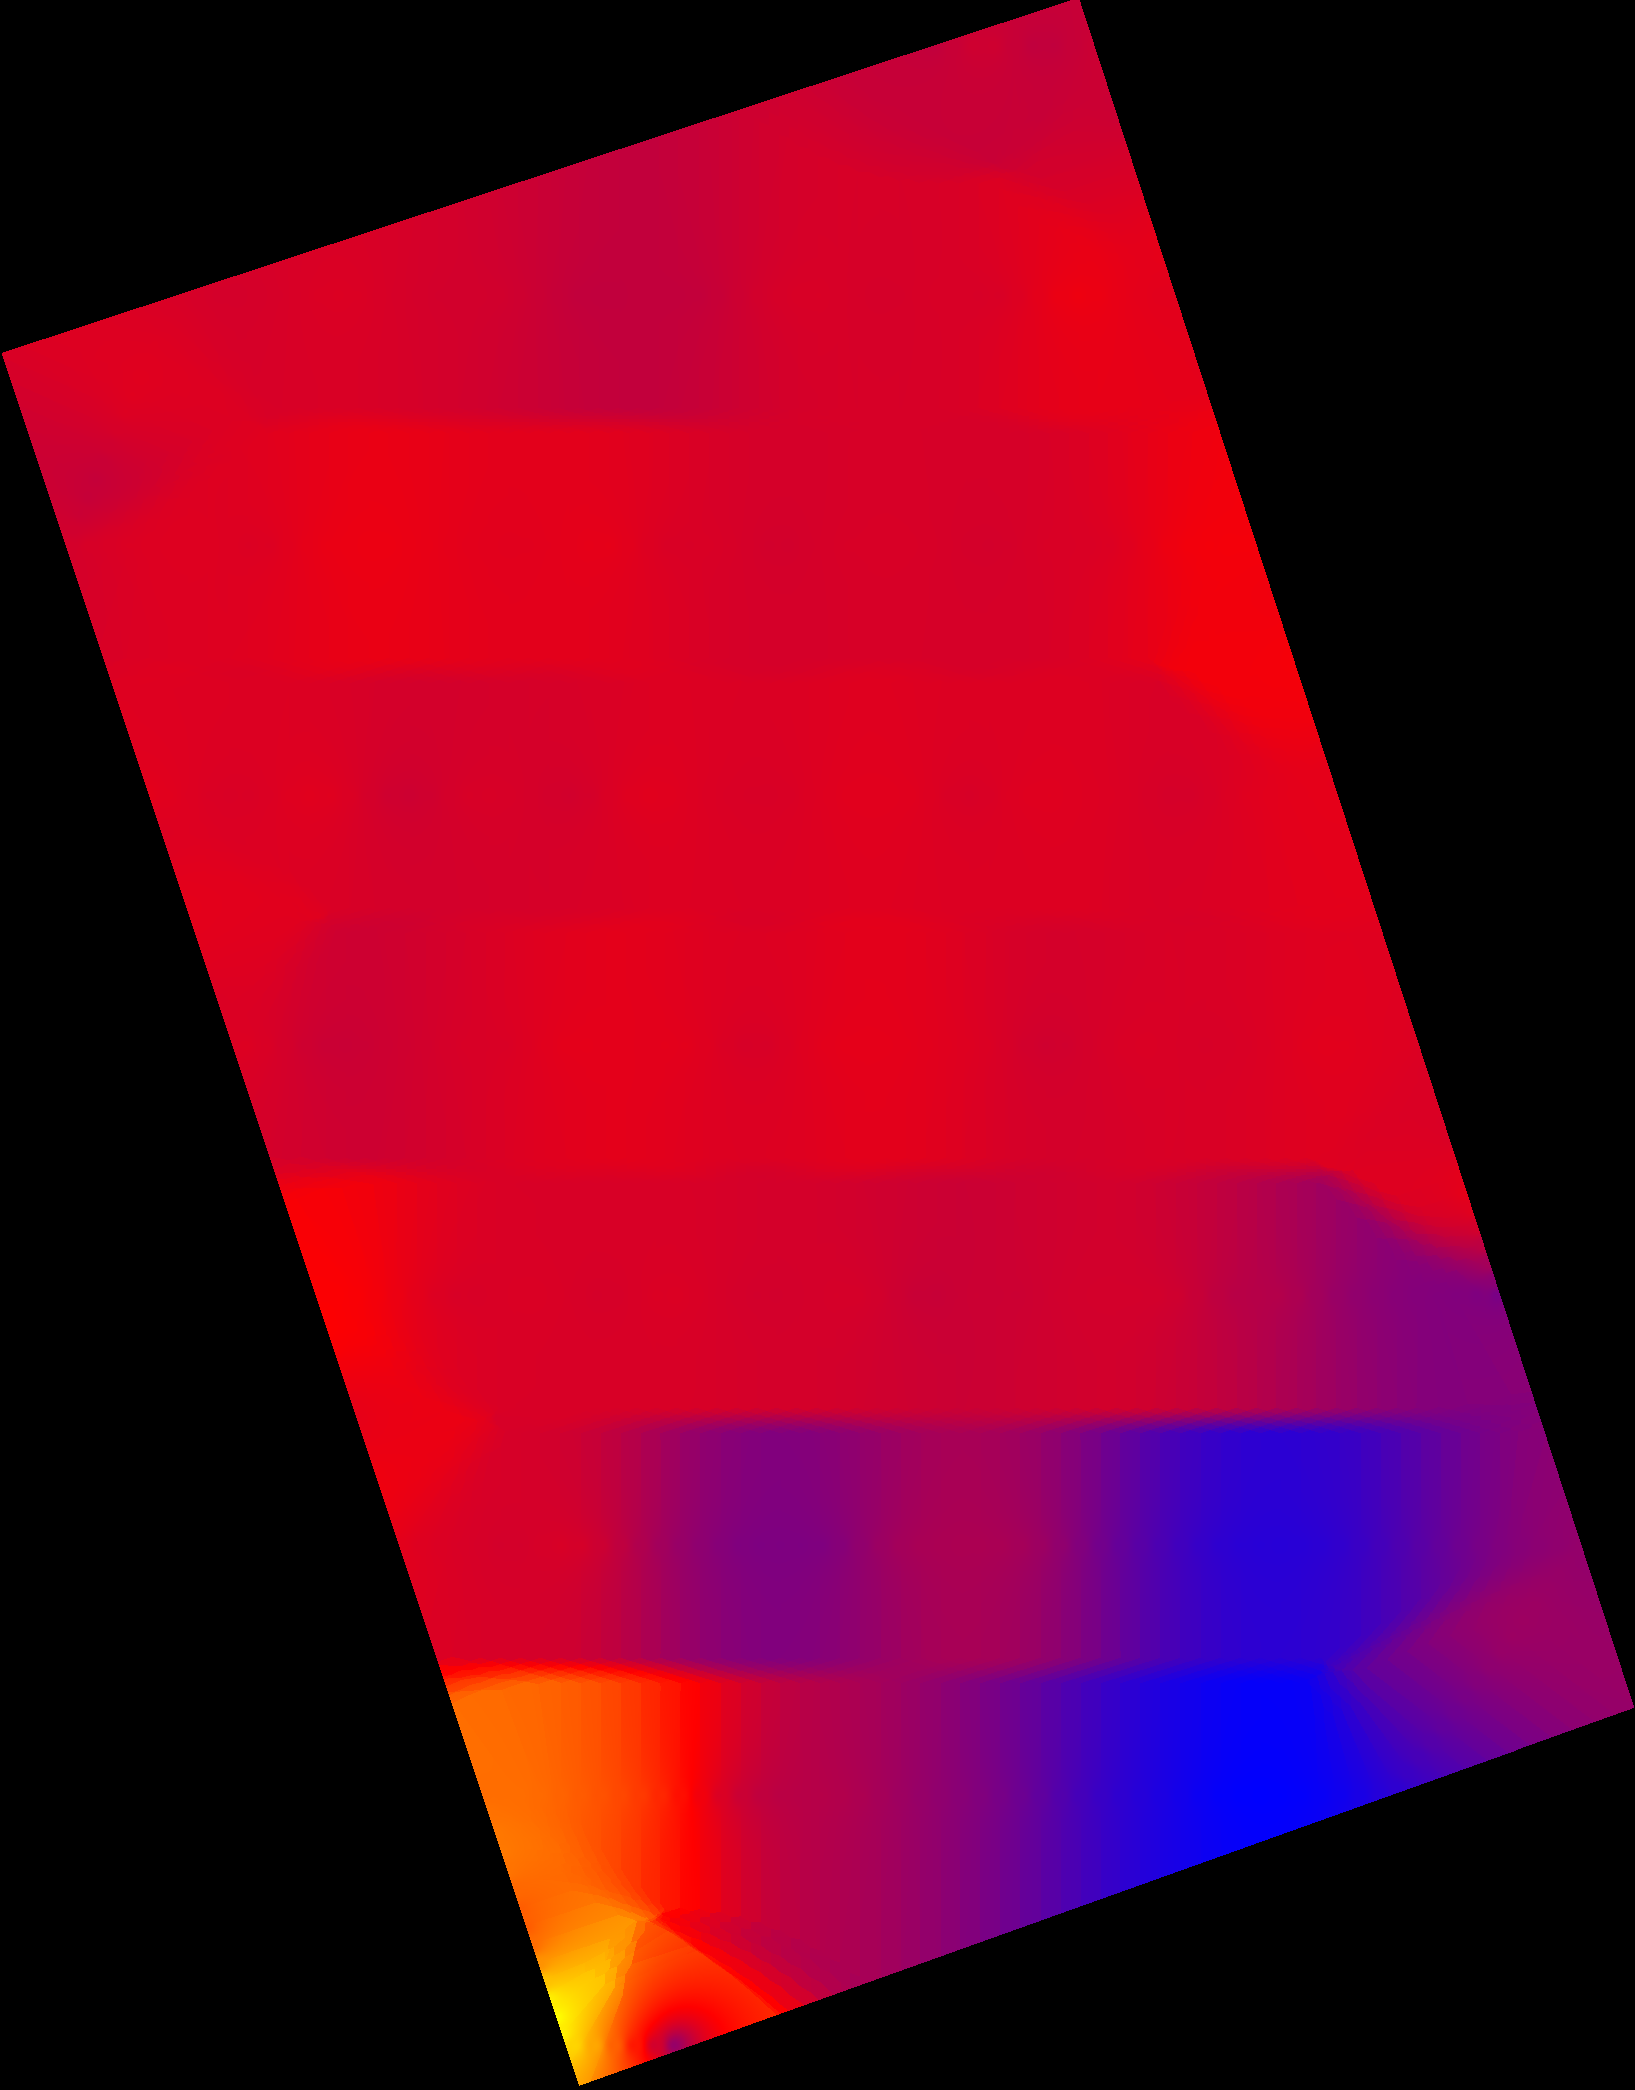
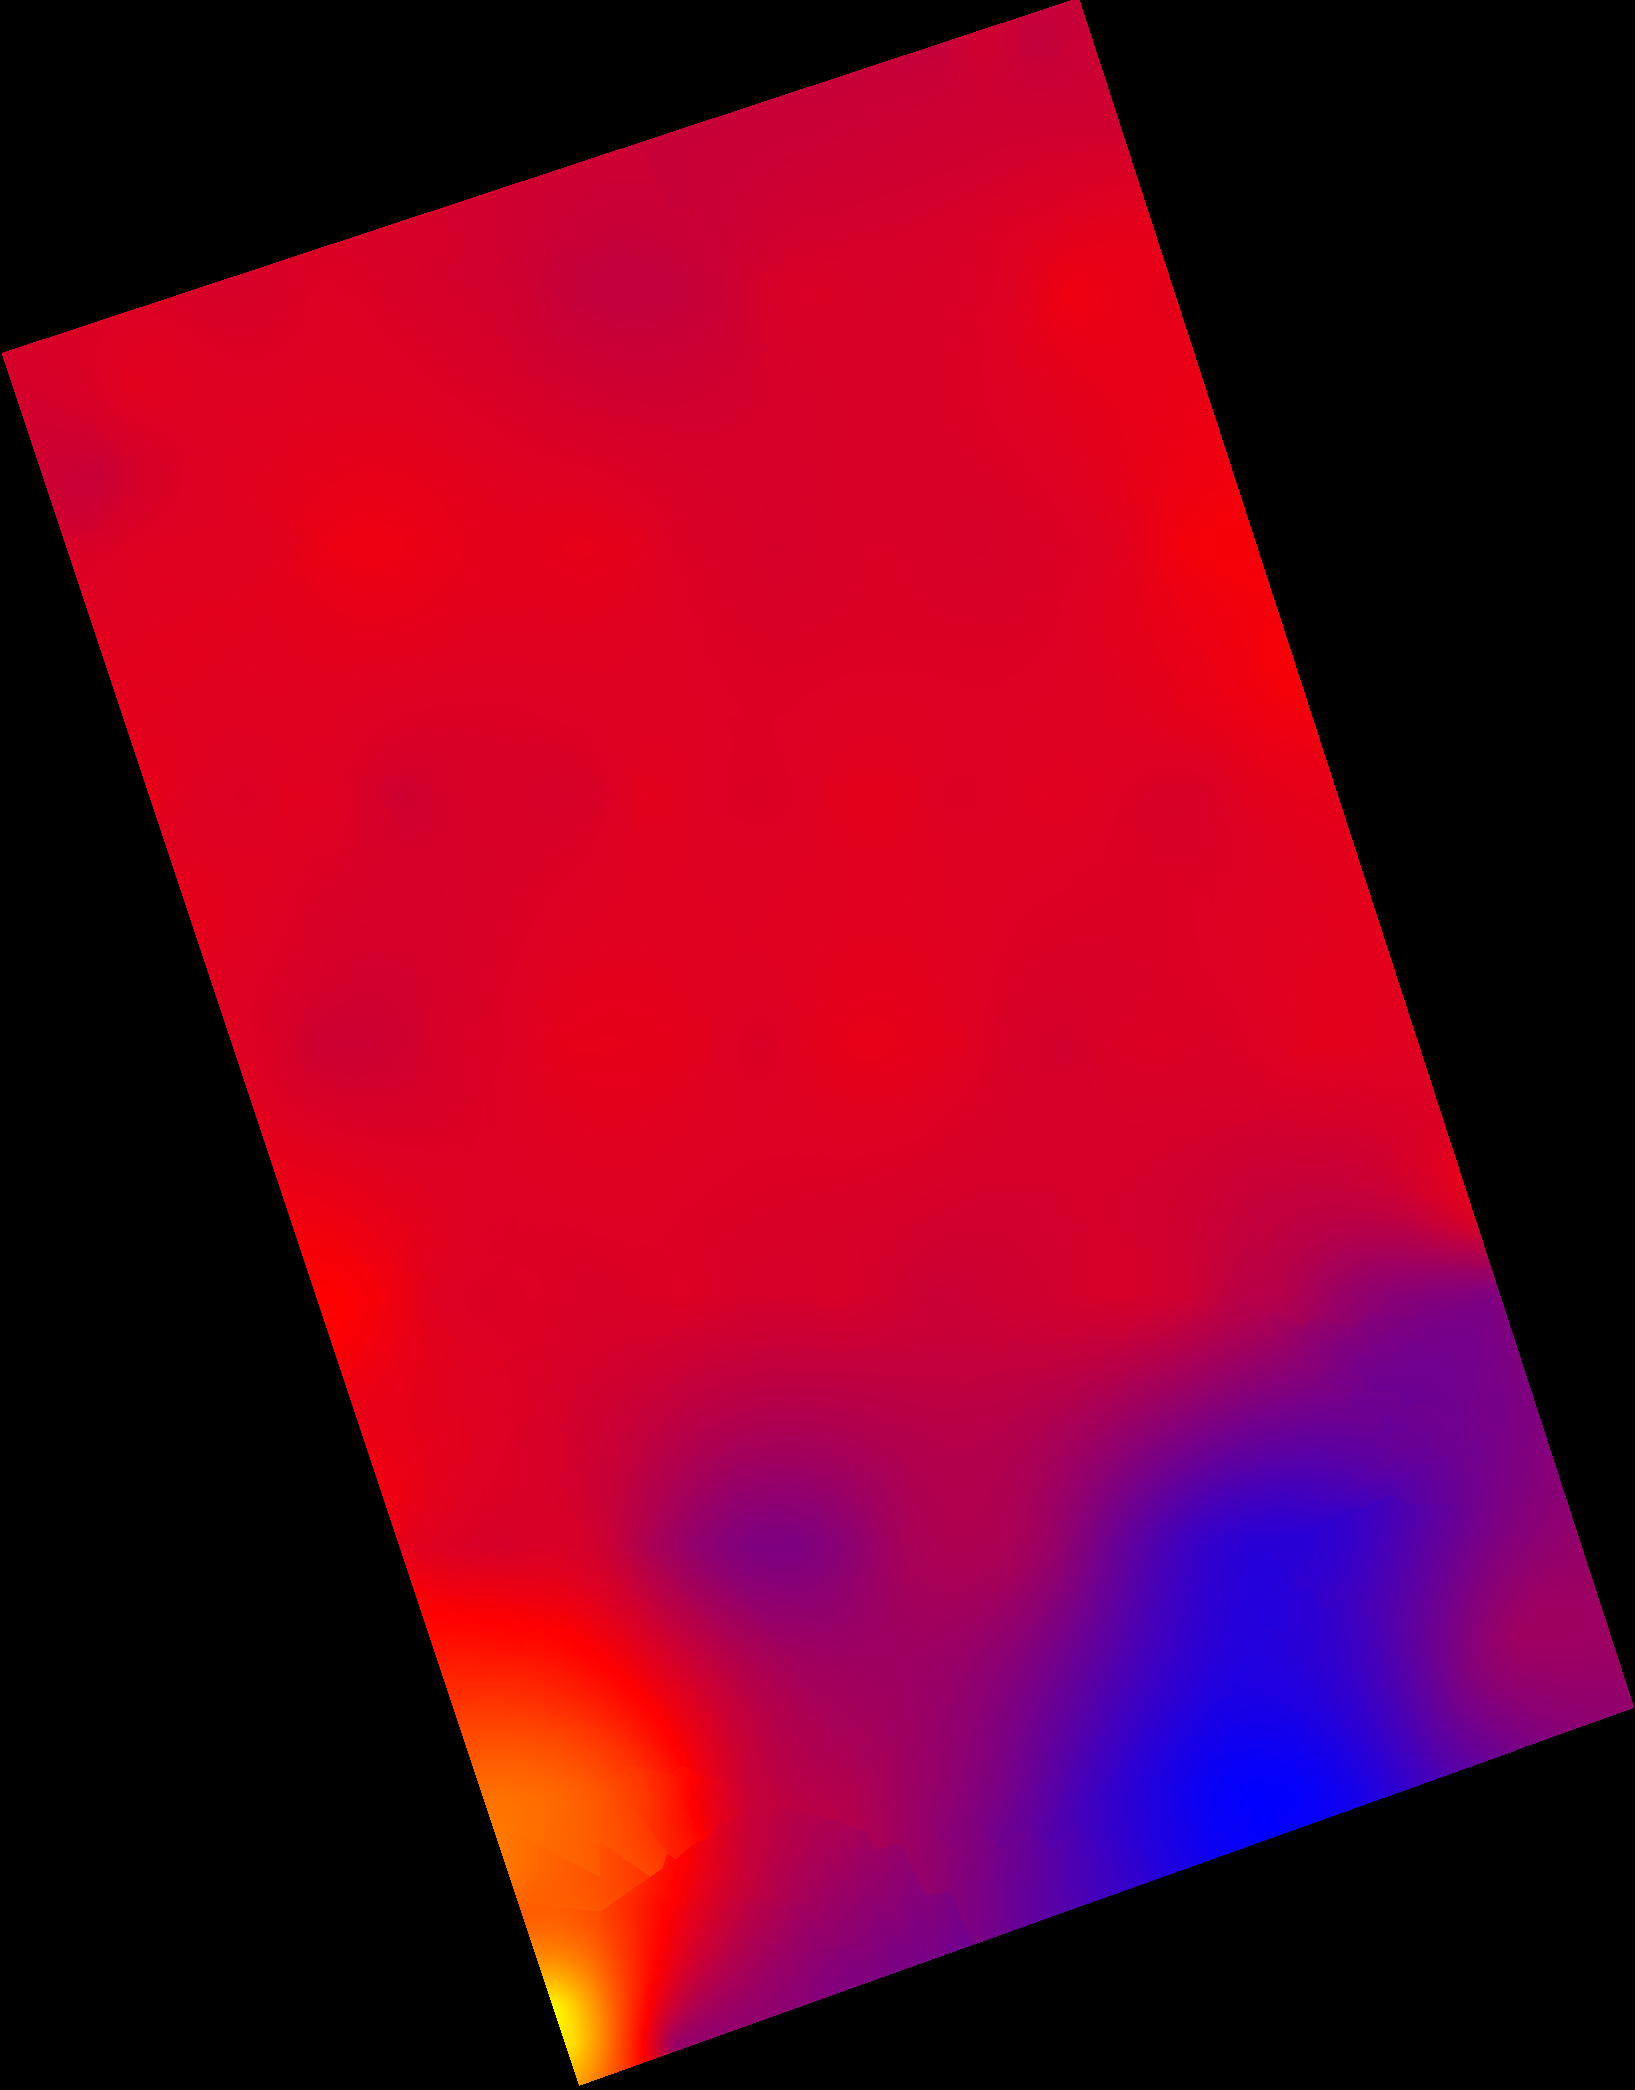
Cambio en ponderaciones idw

diff --git a/simulations/src/processing/interpolation.rs b/simulations/src/processing/interpolation.rs
@@ -137,8 +137,9 @@ fn compute_idw(
             return val;
         }
 
-        weighted_sum += val / dist;
-        weight_total += 1.0 / dist;
+        let weight = 1.0 / dist.powf(2.0);
+        weighted_sum += val * weight;
+        weight_total += weight;
     }
 
     if weight_total > 0.0 { weighted_sum / weight_total } else { 0.0 }

diff --git a/simulations/src/main.rs b/simulations/src/main.rs
@@ -37,7 +37,7 @@ fn main() {
     //x,y
     //2045, 665
 
-    let puntos_a_medir = processing::measuring::find_measuring_points(&recorrido, 20.0);
+    let puntos_a_medir = processing::measuring::find_measuring_points(&recorrido, 50.0);
 
     
     // for point in puntos_a_medir{
